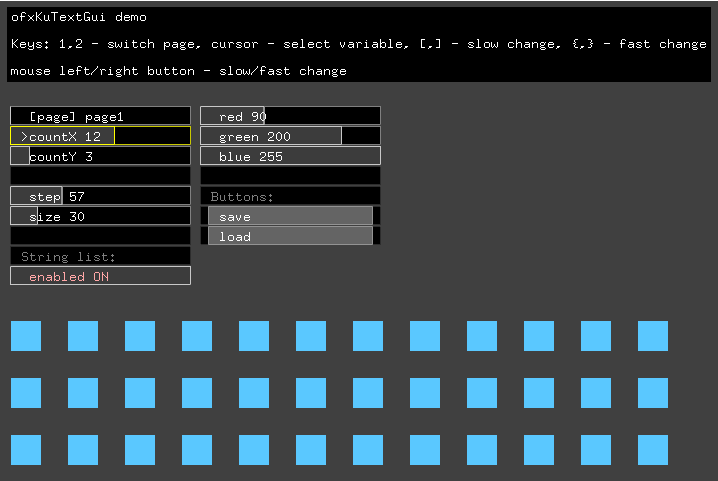
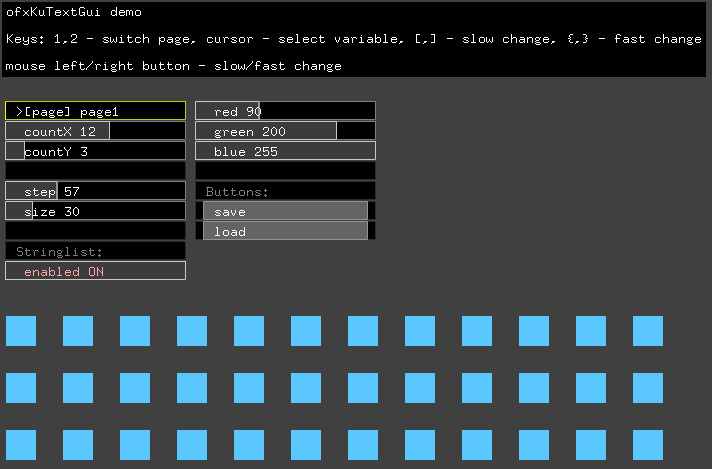
added title and color to dummy

diff --git a/example-gui-generate/src/ofApp.cpp b/example-gui-generate/src/ofApp.cpp
@@ -17,6 +17,8 @@ int list1;
 //--------------------------------------------------------------
 void ofApp::setup(){
     PRM setup(gui,"param.ini");
+
+	gui.set_dummy_color(255);
     
     
     //Access to parameters
@@ -39,16 +41,18 @@ void ofApp::update(){
 
 //--------------------------------------------------------------
 void ofApp::draw(){
-    gui.draw(20,20);
+	ofBackground(64);
+	ofDrawBitmapStringHighlight("Demo of generating GUI H/CPP files from GUI script\n\nPress Shift+G to re-generate gui_generated.h/cpp files from gui-script.ini file", 20, 20);
+
+    gui.draw(20,80);
     
-    //Access to parameters
-    ofSetColor(0);
-    ofDrawBitmapString("OSC port: " + ofToString(PRM send_port), 20, 150);
+    //Access to parameters - using PRM prefix:
+    //ofDrawBitmapStringHighlight("OSC port: " + ofToString(PRM send_port), 20, 300);
 }
 
 //--------------------------------------------------------------
 void ofApp::keyPressed(int key){
-    if (key == 'g') {   //Generate .H and .CPP files for parameters
+    if (key == 'G') {   //Generate .H and .CPP files for parameters
         ofxKuTextGuiGen::generateCPP("gui-script.ini",
                                      "../../src/", "gui_generated",
                                      "Parameters", "params", "PRM");
@@ -68,17 +72,17 @@ void ofApp::mouseMoved(int x, int y ){
 
 //--------------------------------------------------------------
 void ofApp::mouseDragged(int x, int y, int button){
-
+	gui.mouseDragged(x, y, button);
 }
 
 //--------------------------------------------------------------
 void ofApp::mousePressed(int x, int y, int button){
-
+	gui.mousePressed(x, y, button);
 }
 
 //--------------------------------------------------------------
 void ofApp::mouseReleased(int x, int y, int button){
-
+	gui.mouseReleased(x, y, button);
 }
 
 //--------------------------------------------------------------

diff --git a/example-gui-generate/src/gui_generated.cpp b/example-gui-generate/src/gui_generated.cpp
@@ -1,5 +1,5 @@
 #include "gui_generated.h"
-//Auto-generated GUI file for ofxKuTextGui, 2017-03-26-12-20-35-170
+//Auto-generated GUI file for ofxKuTextGui, 2019-06-26-14-43-26-492
 
 Parameters params;
 //--------------------------------------------------------------
@@ -11,22 +11,37 @@ Parameters::Parameters() {
 	send_host="localhost";
 	send_port=12345;
 	list=0;
+	render=0;
 }
 
 //--------------------------------------------------------------
 void Parameters::setup(ofxKuTextGui &gui, string fileName) {
 	gui.addPage("screen");
+	gui.addDummy("Constants names starts with *:");
 	gui.addInt("*FPS",_FPS_,30,1,100,1,10);
+	gui.addDummy("");
+	gui.addDummy("Screen size:");
 	gui.addInt("*w",_w_,1024,1,2000,1,10);
 	gui.addInt("*h",_h_,768,1,2000,1,10);
 	gui.addTab();
+	gui.addTab();
+	gui.addDummy("");
+	gui.addDummy("Output values names starts with -:");
 	gui.addFloat("-fps",fps_,30,0,100,100,10);
 	gui.addPage("osc");
 	gui.addString("send_host",send_host,"localhost");
 	gui.addInt("send_port",send_port,12345,1,65535,1,10);
 	gui.addPage("test_list");
 	gui.addVar("-fps");
+	gui.addDummy("");
+	gui.addDummy("Stringlist:");
 	gui.addStringList("list",list,0,3,"a","b","c");
+	gui.addDummy("");
+	gui.addDummy("Button:");
+	gui.addButton("render",render);
+	gui.set_var_color("*FPS", ofColor(140,140,255));
+	gui.set_var_color("*w", ofColor(140,140,255));
+	gui.set_var_color("*h", ofColor(140,140,255));
 	fileName_ = fileName;
 	gui_ = &gui;
 	gui.loadFromFile(fileName);

diff --git a/src/ofxKuTextGuiGen.cpp b/src/ofxKuTextGuiGen.cpp
@@ -21,9 +21,10 @@
  PAGE all
  var -fps
  dummy
+ dummy Stringlist:
  stringlist list=a [a,b,c]
  button render
- #button - it's int variable, which is set when button is pressed
+ #button - it's int variable, which is set when button is pressed, needs to set to 0 after reading
 
  ------
  Here
@@ -78,7 +79,7 @@ void ofxKuTextGuiGen::generateCPP(string gui_file_in, string c_path, string c_fi
         if (line[0] == '#') continue;   //comment
 
         //remove '\r' for proper reading windows-files in linux
-        while ( line[line.length()-1] == '\r' ) {
+        while (!line.empty() && line[line.length()-1] == '\r' ) {
             line = line.substr( 0, line.length() - 1 );
         }
         lines.push_back( line );
@@ -131,7 +132,10 @@ void ofxKuTextGuiGen::generateCPP(string gui_file_in, string c_path, string c_fi
                     Setup);
 		}
 		if (type_s == "dummy") {
-			put("\tgui.addDummy();", Setup);
+			vector<string> title0 = item;
+			title0.erase(title0.begin());
+			string title = ofJoinString(title0, " ");
+			put("\tgui.addDummy(\"" + title + "\");", Setup);
 		}
         
 		bool is_var = false;

diff --git a/src/ofxKuTextGui.cpp b/src/ofxKuTextGui.cpp
@@ -543,11 +543,12 @@ void ofxKuTextGui::draw(float X, float Y, bool enabled, int alpha_text, int alph
                 float x = X + draw_tabW * t;
                 float y = Y + draw_yStep * i;
                 
-                ofFill();
-                ofSetColor(0, alpha_slider);
-                ofDrawRectangle(x+cellDx,y+cellDy,w,h);
+				bool dummy = (var.index == Var::VDummy);
 
-                if (var.index != Var::VDummy) {
+				if (!dummy) {
+					ofFill();
+					ofSetColor(0, alpha_slider);
+					ofDrawRectangle(x + cellDx, y + cellDy, w, h);
 					bool button = var.is_button();
 					const int button_ind = 8;
 
@@ -603,8 +604,7 @@ void ofxKuTextGui::draw(float X, float Y, bool enabled, int alpha_text, int alph
 				else {
 					//Dummy
 					if (!var.vstring.title.empty()) {
-						ofColor &color = var.color;
-						ofSetColor(127, color.a * alpha_text);
+						ofSetColor(dummy_color_);
 						draw_string(var.vstring.title, x, y);
 					}
 				}

diff --git a/example-remote/src/ofApp.cpp b/example-remote/src/ofApp.cpp
@@ -60,16 +60,19 @@ void ofApp::mouseMoved(int x, int y ){
 //--------------------------------------------------------------
 void ofApp::mouseDragged(int x, int y, int button){
     //client.mouseDragged(x, y, button);
+	gui.mouseDragged(x, y, button);
 }
 
 //--------------------------------------------------------------
 void ofApp::mousePressed(int x, int y, int button){
     //client.mousePressed(x, y, button);
+	gui.mousePressed(x, y, button);
 }
 
 //--------------------------------------------------------------
 void ofApp::mouseReleased(int x, int y, int button){
     //client.mouseReleased(x, y, button);
+	gui.mouseReleased(x, y, button);
 }
 
 //--------------------------------------------------------------

diff --git a/src/ofxKuTextGuiGen.h b/src/ofxKuTextGuiGen.h
@@ -24,9 +24,10 @@
  PAGE all
  var -fps
  dummy
+ dummy Stringlist:
  stringlist list=a [a,b,c]
  button render
- #button - it's int variable, which is set when button is pressed
+ #button - it's int variable, which is set when button is pressed, needs to set to 0 after reading
 
  ------
  Here
@@ -38,9 +39,9 @@
 Example of generator calling:
  generateCPP("../../src/gui-script.ini", "../src/params",
                         "Parameters", "params",
-                         "P");
+                         "PRM");
 "P" is the abbreviation of the parameters, you can use them in such a way:
-  sender.setup(P send_host, P send_port);
+  sender.setup(PRM send_host, PRM send_port);
  
 */
 

diff --git a/example-basic/src/ofApp.cpp b/example-basic/src/ofApp.cpp
@@ -7,7 +7,8 @@
 void ofApp::setup(){
 
 	gui.set_tab_w(180);
-
+	//gui.set_dummy_color(255);
+	
 	gui.addPage("page1");	
 	gui.addInt("countX", countX, countX, 1, 20, 1, 10);
 	gui.addInt("countY", countY, countY, 1, 20, 1, 10);
@@ -18,7 +19,7 @@ void ofApp::setup(){
 
 	gui.addDummy();
 
-	gui.addDummy("String list:");
+	gui.addDummy("Stringlist:");
 	vector<string> list;
 	list.push_back("OFF");
 	list.push_back("ON");

diff --git a/example-gui-generate/src/gui_generated.h b/example-gui-generate/src/gui_generated.h
@@ -1,5 +1,5 @@
 #pragma once
-//Auto-generated GUI file for ofxKuTextGui, 2017-03-26-12-20-35-117
+//Auto-generated GUI file for ofxKuTextGui, 2019-06-26-14-43-26-487
 
 #include "ofMain.h"
 #include "ofxKuTextGui.h"
@@ -15,6 +15,7 @@ struct Parameters {
 	string send_host;
 	int send_port;
 	int list;
+	int render;
     Parameters();
     void setup(ofxKuTextGui &gui, string fileName);
     void save();

diff --git a/src/ofxKuTextGui.h b/src/ofxKuTextGui.h
@@ -27,6 +27,9 @@ struct ofxKuTextGui {
     float draw_yStep;	//Distance between lines
 	void set_tab_w(float w, float indentx = 10);	
 
+	ofColor dummy_color_ = ofColor(127);
+	void set_dummy_color(const ofColor &color) { dummy_color_ = color; }
+
 	//using custom font - if not, using ofDrawBitmapString
 	void set_font(ofTrueTypeFont *font, float shift_x, float shift_y);
 	ofTrueTypeFont *custom_font_;
